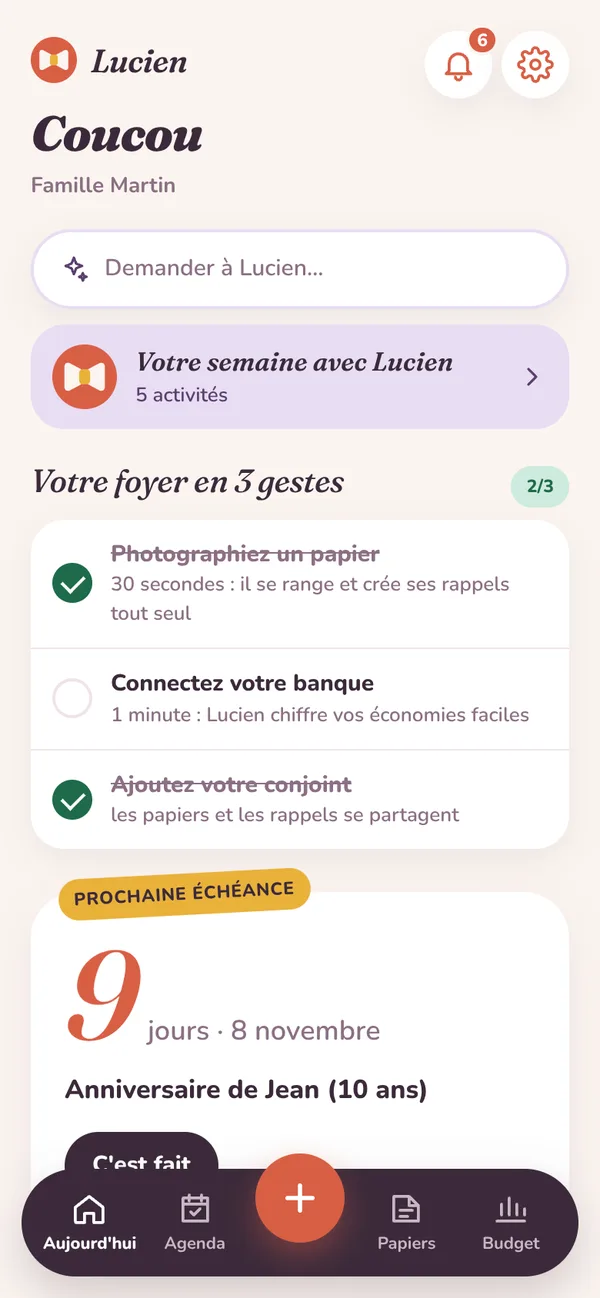
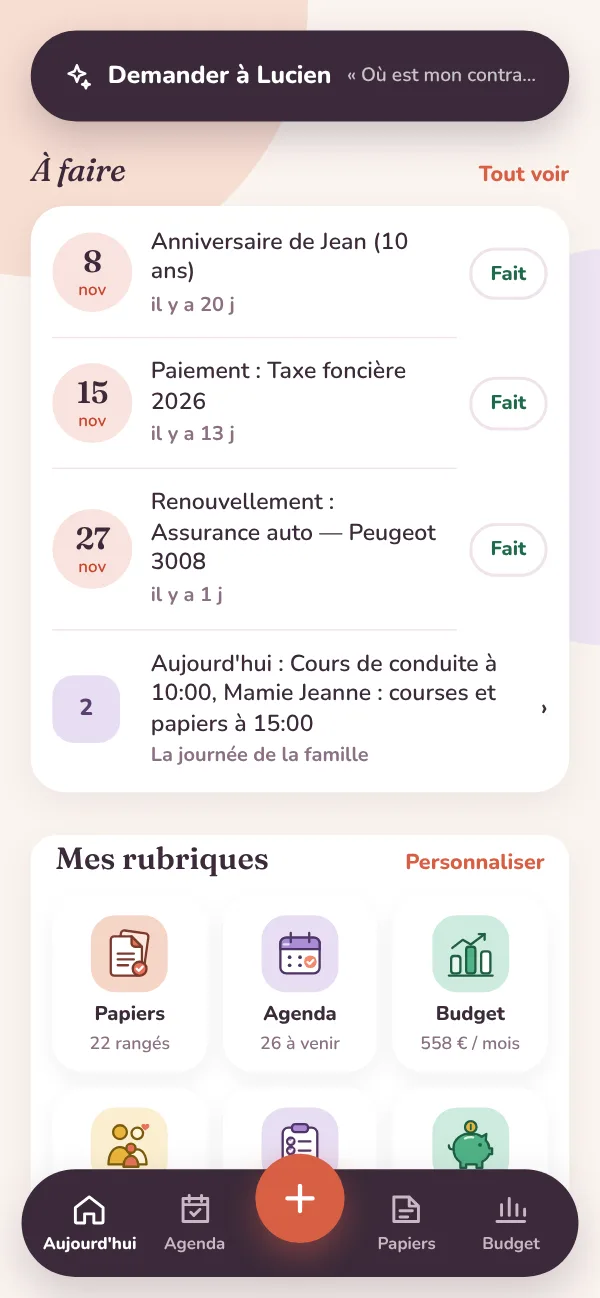
Site : captures de l'accueil épuré avec les nouvelles icônes, légende mise à jour dans les six langues
Claude-Session: https://claude.ai/code/session_01SKXp3YtnicuTMZX8UfmED5

diff --git a/site/i18n.js b/site/i18n.js
@@ -10,7 +10,7 @@ window.LUCIEN_I18N = {
     t6s: "Sign up",
     vpause: "Pause the video", vplay: "Play the video",
     pr1: "All of Lucien, AI reading included", pr2: "Bank connection and savings", pr3: "Reminders by notification and email", pr4: "All of Lucien, for both of you", pr5: "Each with their own login, the same papers", pr6: "Reminders reach you both", pr7: "All of Lucien, up to 6 logins", pr8: "Grown-up children and grandparents connected", pr9: "Everyone sees what they should",
-    n1: "The tour", h1: "Hosted in Europe", h2: "No advertising", h3: "Read-only bank access", b1: "Notice period: 12 days left", b2: "Invoice filed by itself", b3: "a year, one forgotten subscription", v0: "The tour", v00: "The whole household fits in one app.", v000: "Twelve screens, and nothing slips through again. Scroll through.", v1: "Today", v2: "The next deadline in big, everyone's day, and what you have already saved.", v3: "Agenda", v4: "Paperwork deadlines and the children's activities in one place, with the reminder before.", v5: "Papers", v6: "Every contract with its dates, notice period and amount. One search and it's there.", v7: "Family", v8: "The whole family in photos: who does what today, the week, key dates and benefits.", v9: "Budget", v10: "Your real spending, and the easy savings ranked by gain, with the button to act.", pm: "Monthly", pa: "Yearly", pa2: "2 months free", pF: "15 days, all included", pS: "Just for you", pD: "Ideal for couples", pD2: "You and your partner", pT: "The whole family, grown-up children included", pinc: "Included in Solo, Duo and Tribu", peq: "i.e. {x} / month", peq2: "no commitment", t34: "Example built from a fictional family. Your figures depend on your contracts.",
+    n1: "The tour", h1: "Hosted in Europe", h2: "No advertising", h3: "Read-only bank access", b1: "Notice period: 12 days left", b2: "Invoice filed by itself", b3: "a year, one forgotten subscription", v0: "The tour", v00: "The whole household fits in one app.", v000: "Twelve screens, and nothing slips through again. Scroll through.", v1: "Today", v2: "A question for Lucien, what needs doing, then your sections: everyone builds their own home screen.", v3: "Agenda", v4: "Paperwork deadlines and the children's activities in one place, with the reminder before.", v5: "Papers", v6: "Every contract with its dates, notice period and amount. One search and it's there.", v7: "Family", v8: "The whole family in photos: who does what today, the week, key dates and benefits.", v9: "Budget", v10: "Your real spending, and the easy savings ranked by gain, with the button to act.", pm: "Monthly", pa: "Yearly", pa2: "2 months free", pF: "15 days, all included", pS: "Just for you", pD: "Ideal for couples", pD2: "You and your partner", pT: "The whole family, grown-up children included", pinc: "Included in Solo, Duo and Tribu", peq: "i.e. {x} / month", peq2: "no commitment", t34: "Example built from a fictional family. Your figures depend on your contracts.",
     _dir: "ltr", _desc: "Lucien files your family's paperwork, warns you before every deadline and finds the easy savings in your spending. With a connector for your AI assistant.",
     t1: "Savings", t2: "How it works", t3: "AI connector", t4: "Pricing", t5: "Questions", t6: "Join the waitlist",
     t7: "Lucien, the butler who <b>thinks of everything</b> for you.",
@@ -95,7 +95,7 @@ window.LUCIEN_I18N = {
     t6s: "Apuntarme",
     vpause: "Pausar el vídeo", vplay: "Reproducir el vídeo",
     pr1: "Todo Lucien, lectura por IA incluida", pr2: "Conexión bancaria y ahorros", pr3: "Avisos por notificación y por email", pr4: "Todo Lucien, para los dos", pr5: "Cada uno con su acceso, los mismos papeles", pr6: "Los avisos llegan a los dos", pr7: "Todo Lucien, hasta 6 accesos", pr8: "Hijos mayores y abuelos conectados", pr9: "Cada uno ve lo que debe ver",
-    n1: "La visita", h1: "Alojado en Europa", h2: "Sin publicidad", h3: "Banco solo en lectura", b1: "Preaviso: quedan 12 días", b2: "Factura archivada sola", b3: "al año, una suscripción olvidada", v0: "La visita", v00: "Todo el hogar cabe en una sola app.", v000: "Doce pantallas, y ya nada se te escapa. Desliza.", v1: "Hoy", v2: "El próximo vencimiento en grande, el día de cada uno y lo que ya has ahorrado.", v3: "Agenda", v4: "Los vencimientos de los papeles y las actividades de los niños en un mismo lugar, con el aviso antes.", v5: "Papeles", v6: "Cada contrato con sus fechas, su preaviso y su importe. Una búsqueda y ahí está.", v7: "Familia", v8: "Toda la familia en fotos: quién hace qué hoy, la semana, las fechas clave y las ayudas.", v9: "Presupuesto", v10: "Tus gastos reales y los ahorros fáciles ordenados por ganancia, con el botón para actuar.", pm: "Mensual", pa: "Anual", pa2: "2 meses gratis", pF: "15 días, todo incluido", pS: "Solo para ti", pD: "Ideal en pareja", pD2: "Tú y tu pareja", pT: "Toda la familia, hijos mayores incluidos", pinc: "Incluido en Solo, Duo y Tribu", peq: "o sea {x} / mes", peq2: "sin compromiso", t34: "Ejemplo construido a partir de una familia ficticia. Tus cifras dependen de tus contratos.",
+    n1: "La visita", h1: "Alojado en Europa", h2: "Sin publicidad", h3: "Banco solo en lectura", b1: "Preaviso: quedan 12 días", b2: "Factura archivada sola", b3: "al año, una suscripción olvidada", v0: "La visita", v00: "Todo el hogar cabe en una sola app.", v000: "Doce pantallas, y ya nada se te escapa. Desliza.", v1: "Hoy", v2: "Una pregunta a Lucien, lo que hay que hacer y luego sus secciones: cada uno compone su inicio.", v3: "Agenda", v4: "Los vencimientos de los papeles y las actividades de los niños en un mismo lugar, con el aviso antes.", v5: "Papeles", v6: "Cada contrato con sus fechas, su preaviso y su importe. Una búsqueda y ahí está.", v7: "Familia", v8: "Toda la familia en fotos: quién hace qué hoy, la semana, las fechas clave y las ayudas.", v9: "Presupuesto", v10: "Tus gastos reales y los ahorros fáciles ordenados por ganancia, con el botón para actuar.", pm: "Mensual", pa: "Anual", pa2: "2 meses gratis", pF: "15 días, todo incluido", pS: "Solo para ti", pD: "Ideal en pareja", pD2: "Tú y tu pareja", pT: "Toda la familia, hijos mayores incluidos", pinc: "Incluido en Solo, Duo y Tribu", peq: "o sea {x} / mes", peq2: "sin compromiso", t34: "Ejemplo construido a partir de una familia ficticia. Tus cifras dependen de tus contratos.",
     _dir: "ltr", _desc: "Lucien ordena los papeles de tu familia, te avisa antes de cada vencimiento y encuentra los ahorros fáciles en tus gastos. Con un conector para tu asistente de IA.",
     t1: "Ahorros", t2: "Cómo funciona", t3: "Conector IA", t4: "Precios", t5: "Preguntas", t6: "Unirme a la lista de espera",
     t7: "Lucien, el mayordomo que <b>piensa en todo</b> por ti.",
@@ -180,7 +180,7 @@ window.LUCIEN_I18N = {
     t6s: "Iscriviti",
     vpause: "Metti in pausa il video", vplay: "Riproduci il video",
     pr1: "Tutto Lucien, lettura con l'IA inclusa", pr2: "Collegamento bancario e risparmi", pr3: "Promemoria con notifica ed email", pr4: "Tutto Lucien, per voi due", pr5: "Ognuno il suo accesso, gli stessi documenti", pr6: "I promemoria arrivano a entrambi", pr7: "Tutto Lucien, fino a 6 accessi", pr8: "Figli grandi e nonni collegati", pr9: "Ognuno vede ciò che deve vedere",
-    n1: "Il tour", h1: "Ospitato in Europa", h2: "Senza pubblicità", h3: "Banca in sola lettura", b1: "Preavviso: mancano 12 giorni", b2: "Fattura archiviata da sola", b3: "all'anno, un abbonamento dimenticato", v0: "Il tour", v00: "Tutta la famiglia sta in un'unica app.", v000: "Dodici schermate, e nulla ti sfugge più. Scorri.", v1: "Oggi", v2: "La prossima scadenza in grande, la giornata di ognuno e quanto hai già risparmiato.", v3: "Agenda", v4: "Le scadenze dei documenti e le attività dei figli nello stesso posto, con il promemoria prima.", v5: "Documenti", v6: "Ogni contratto con le sue date, il preavviso e l'importo. Una ricerca ed è lì.", v7: "Famiglia", v8: "Tutta la famiglia in foto: chi fa cosa oggi, la settimana, le date chiave e gli aiuti.", v9: "Budget", v10: "Le tue spese reali e i risparmi facili ordinati per guadagno, con il pulsante per agire.", pm: "Mensile", pa: "Annuale", pa2: "2 mesi gratis", pF: "15 giorni, tutto incluso", pS: "Solo per te", pD: "Ideale in coppia", pD2: "Tu e il tuo partner", pT: "Tutta la famiglia, figli grandi compresi", pinc: "Incluso in Solo, Duo e Tribu", peq: "cioè {x} / mese", peq2: "senza vincoli", t34: "Esempio costruito su una famiglia fittizia. Le tue cifre dipendono dai tuoi contratti.",
+    n1: "Il tour", h1: "Ospitato in Europa", h2: "Senza pubblicità", h3: "Banca in sola lettura", b1: "Preavviso: mancano 12 giorni", b2: "Fattura archiviata da sola", b3: "all'anno, un abbonamento dimenticato", v0: "Il tour", v00: "Tutta la famiglia sta in un'unica app.", v000: "Dodici schermate, e nulla ti sfugge più. Scorri.", v1: "Oggi", v2: "Una domanda a Lucien, le cose da fare, poi le tue sezioni: ognuno compone la propria home.", v3: "Agenda", v4: "Le scadenze dei documenti e le attività dei figli nello stesso posto, con il promemoria prima.", v5: "Documenti", v6: "Ogni contratto con le sue date, il preavviso e l'importo. Una ricerca ed è lì.", v7: "Famiglia", v8: "Tutta la famiglia in foto: chi fa cosa oggi, la settimana, le date chiave e gli aiuti.", v9: "Budget", v10: "Le tue spese reali e i risparmi facili ordinati per guadagno, con il pulsante per agire.", pm: "Mensile", pa: "Annuale", pa2: "2 mesi gratis", pF: "15 giorni, tutto incluso", pS: "Solo per te", pD: "Ideale in coppia", pD2: "Tu e il tuo partner", pT: "Tutta la famiglia, figli grandi compresi", pinc: "Incluso in Solo, Duo e Tribu", peq: "cioè {x} / mese", peq2: "senza vincoli", t34: "Esempio costruito su una famiglia fittizia. Le tue cifre dipendono dai tuoi contratti.",
     _dir: "ltr", _desc: "Lucien archivia i documenti della tua famiglia, ti avvisa prima di ogni scadenza e trova i risparmi facili nelle tue spese. Con un connettore per il tuo assistente IA.",
     t1: "Risparmi", t2: "Come funziona", t3: "Connettore IA", t4: "Prezzi", t5: "Domande", t6: "Iscriviti alla lista d'attesa",
     t7: "Lucien, il maggiordomo che <b>pensa a tutto</b> per te.",
@@ -285,7 +285,7 @@ window.LUCIEN_I18N = {
     v00: "Όλο το νοικοκυριό σε μία εφαρμογή.",
     v000: "Δώδεκα οθόνες, και τίποτα δεν σας ξεφεύγει πια. Κάντε κύλιση.",
     v1: "Σήμερα",
-    v2: "Η επόμενη προθεσμία με μεγάλα γράμματα, η μέρα του καθενός και όσα έχετε ήδη εξοικονομήσει.",
+    v2: "Μια ερώτηση στον Lucien, ό,τι πρέπει να γίνει και μετά οι ενότητές σας: ο καθένας φτιάχνει τη δική του αρχική οθόνη.",
     v3: "Ημερολόγιο",
     v4: "Οι προθεσμίες των εγγράφων και οι δραστηριότητες των παιδιών στο ίδιο σημείο, με υπενθύμιση από πριν.",
     v5: "Έγγραφα",
@@ -637,7 +637,7 @@ window.LUCIEN_I18N = {
     t6s: "سجّلني",
     vpause: "إيقاف الفيديو مؤقتًا", vplay: "تشغيل الفيديو",
     pr1: "كل لوسيان، مع القراءة بالذكاء الاصطناعي", pr2: "ربط البنك والتوفير", pr3: "تذكيرات بالإشعار والبريد", pr4: "كل لوسيان، لكما معًا", pr5: "لكل واحد دخوله، والأوراق نفسها", pr6: "التذكيرات تصل إلى كليكما", pr7: "كل لوسيان، حتى 6 حسابات", pr8: "الأبناء الكبار والأجداد متصلون", pr9: "كلٌّ يرى ما يخصه",
-    n1: "الجولة", h1: "مستضاف في أوروبا", h2: "بلا إعلانات", h3: "البنك للقراءة فقط", b1: "مهلة الإلغاء: بقي 12 يومًا", b2: "فاتورة رُتّبت وحدها", b3: "سنويًا، اشتراك منسي", v0: "الجولة", v00: "البيت كله في تطبيق واحد.", v000: "اثنتا عشرة شاشة، ولن يفوتك شيء بعد اليوم. مرّر.", v1: "اليوم", v2: "الموعد القادم بخط كبير، ويوم كل فرد، وما وفّرته حتى الآن.", v3: "المفكرة", v4: "مواعيد الأوراق وأنشطة الأطفال في مكان واحد، مع التذكير مسبقًا.", v5: "الأوراق", v6: "كل عقد بتواريخه ومهلة إلغائه ومبلغه. بحث واحد ويظهر.", v7: "العائلة", v8: "العائلة كلها بالصور: من يفعل ماذا اليوم، الأسبوع، التواريخ المهمة والمساعدات.", v9: "الميزانية", v10: "مصاريفك الحقيقية، والتوفير السهل مرتّبًا حسب المكسب، مع زر التنفيذ.", pm: "شهري", pa: "سنوي", pa2: "شهران مجانًا", pF: "15 يومًا، كل شيء مشمول", pS: "لك وحدك", pD: "مثالي للأزواج", pD2: "أنت وشريكك", pT: "العائلة كلها، مع الأبناء الكبار", pinc: "مشمول في Solo وDuo وTribu", peq: "أي {x} / شهريًا", peq2: "بلا التزام", t34: "مثال مبني على عائلة خيالية. أرقامك تعتمد على عقودك.",
+    n1: "الجولة", h1: "مستضاف في أوروبا", h2: "بلا إعلانات", h3: "البنك للقراءة فقط", b1: "مهلة الإلغاء: بقي 12 يومًا", b2: "فاتورة رُتّبت وحدها", b3: "سنويًا، اشتراك منسي", v0: "الجولة", v00: "البيت كله في تطبيق واحد.", v000: "اثنتا عشرة شاشة، ولن يفوتك شيء بعد اليوم. مرّر.", v1: "اليوم", v2: "سؤال إلى Lucien، وما يجب القيام به، ثم أقسامك: كلٌّ يصمّم شاشته الرئيسية.", v3: "المفكرة", v4: "مواعيد الأوراق وأنشطة الأطفال في مكان واحد، مع التذكير مسبقًا.", v5: "الأوراق", v6: "كل عقد بتواريخه ومهلة إلغائه ومبلغه. بحث واحد ويظهر.", v7: "العائلة", v8: "العائلة كلها بالصور: من يفعل ماذا اليوم، الأسبوع، التواريخ المهمة والمساعدات.", v9: "الميزانية", v10: "مصاريفك الحقيقية، والتوفير السهل مرتّبًا حسب المكسب، مع زر التنفيذ.", pm: "شهري", pa: "سنوي", pa2: "شهران مجانًا", pF: "15 يومًا، كل شيء مشمول", pS: "لك وحدك", pD: "مثالي للأزواج", pD2: "أنت وشريكك", pT: "العائلة كلها، مع الأبناء الكبار", pinc: "مشمول في Solo وDuo وTribu", peq: "أي {x} / شهريًا", peq2: "بلا التزام", t34: "مثال مبني على عائلة خيالية. أرقامك تعتمد على عقودك.",
     _dir: "rtl", _desc: "لوسيان يرتّب أوراق عائلتك، وينبّهك قبل كل موعد استحقاق، ويجد لك الوفورات السهلة في مصاريفك. مع موصّل لمساعدك الذكي.",
     t1: "الوفورات", t2: "كيف يعمل", t3: "موصّل الذكاء الاصطناعي", t4: "الأسعار", t5: "أسئلة", t6: "الانضمام إلى قائمة الانتظار",
     t7: "لوسيان، كبير الخدم الذي <b>يفكّر في كل شيء</b> من أجلك.",

diff --git a/site/el/index.html b/site/el/index.html
@@ -160,7 +160,7 @@
     <p class="lead rv" data-i18n="v000">Δώδεκα οθόνες, και τίποτα δεν σας ξεφεύγει πια. Κάντε κύλιση.</p>
   </div>
   <div class="tour-track" id="tour" tabindex="0" aria-label="Οθόνες της εφαρμογής Lucien">
-    <figure class="tour-card rv"><div class="device"><img src="../img/app-home.webp" width="260" height="562" alt="Αρχική οθόνη του Lucien" loading="lazy"></div><figcaption><b data-i18n="v1">Σήμερα</b><span data-i18n="v2">Η επόμενη προθεσμία με μεγάλα γράμματα, η μέρα του καθενός και όσα έχετε ήδη εξοικονομήσει.</span></figcaption></figure>
+    <figure class="tour-card rv"><div class="device"><img src="../img/app-home.webp" width="260" height="562" alt="Αρχική οθόνη του Lucien" loading="lazy"></div><figcaption><b data-i18n="v1">Σήμερα</b><span data-i18n="v2">Μια ερώτηση στον Lucien, ό,τι πρέπει να γίνει και μετά οι ενότητές σας: ο καθένας φτιάχνει τη δική του αρχική οθόνη.</span></figcaption></figure>
     <figure class="tour-card rv"><div class="device"><img src="../img/app-deadlines.webp" width="260" height="562" alt="Ημερολόγιο του Lucien" loading="lazy"></div><figcaption><b data-i18n="v3">Ημερολόγιο</b><span data-i18n="v4">Οι προθεσμίες των εγγράφων και οι δραστηριότητες των παιδιών στο ίδιο σημείο, με υπενθύμιση από πριν.</span></figcaption></figure>
     <figure class="tour-card rv"><div class="device"><img src="../img/app-docs.webp" width="260" height="562" alt="Τακτοποιημένα έγγραφα στο Lucien" loading="lazy"></div><figcaption><b data-i18n="v5">Έγγραφα</b><span data-i18n="v6">Κάθε σύμβαση με τις ημερομηνίες, την προθεσμία καταγγελίας και το ποσό της. Μία αναζήτηση και τη βρίσκετε.</span></figcaption></figure>
     <figure class="tour-card rv"><div class="device"><img src="../img/app-reclamation.webp" width="260" height="562" alt="Διαμαρτυρία γραμμένη από τον Lucien" loading="lazy"></div><figcaption><b data-i18n="v17">Διαμαρτυρία</b><span data-i18n="v18">Εξηγείτε σε δύο φράσεις: ο Lucien γράφει την επιστολή, με τη διεύθυνση και το email που διάβασε στο έγγραφο.</span></figcaption></figure>

diff --git a/site/ar/index.html b/site/ar/index.html
@@ -160,7 +160,7 @@
     <p class="lead rv" data-i18n="v000">اثنتا عشرة شاشة، ولن يفوتك شيء بعد اليوم. مرّر.</p>
   </div>
   <div class="tour-track" id="tour" tabindex="0" aria-label="شاشات تطبيق لوسيان">
-    <figure class="tour-card rv"><div class="device"><img src="../img/app-home.webp" width="260" height="562" alt="الشاشة الرئيسية للوسيان" loading="lazy"></div><figcaption><b data-i18n="v1">اليوم</b><span data-i18n="v2">الموعد القادم بخط كبير، ويوم كل فرد، وما وفّرته حتى الآن.</span></figcaption></figure>
+    <figure class="tour-card rv"><div class="device"><img src="../img/app-home.webp" width="260" height="562" alt="الشاشة الرئيسية للوسيان" loading="lazy"></div><figcaption><b data-i18n="v1">اليوم</b><span data-i18n="v2">سؤال إلى Lucien، وما يجب القيام به، ثم أقسامك: كلٌّ يصمّم شاشته الرئيسية.</span></figcaption></figure>
     <figure class="tour-card rv"><div class="device"><img src="../img/app-deadlines.webp" width="260" height="562" alt="تقويم لوسيان" loading="lazy"></div><figcaption><b data-i18n="v3">المفكرة</b><span data-i18n="v4">مواعيد الأوراق وأنشطة الأطفال في مكان واحد، مع التذكير مسبقًا.</span></figcaption></figure>
     <figure class="tour-card rv"><div class="device"><img src="../img/app-docs.webp" width="260" height="562" alt="أوراق مرتبة في لوسيان" loading="lazy"></div><figcaption><b data-i18n="v5">الأوراق</b><span data-i18n="v6">كل عقد بتواريخه ومهلة إلغائه ومبلغه. بحث واحد ويظهر.</span></figcaption></figure>
     <figure class="tour-card rv"><div class="device"><img src="../img/app-reclamation.webp" width="260" height="562" alt="شكوى حرّرها لوسيان" loading="lazy"></div><figcaption><b data-i18n="v17">الشكاوى</b><span data-i18n="v18">تشرح في جملتين: يكتب لوسيان الرسالة، بالعنوان والبريد الإلكتروني المقروءين في الورقة.</span></figcaption></figure>

diff --git a/site/index.html b/site/index.html
@@ -160,7 +160,7 @@
     <p class="lead rv" data-i18n="v000">Douze écrans, et plus rien ne vous échappe. Faites défiler.</p>
   </div>
   <div class="tour-track" id="tour" tabindex="0" aria-label="Écrans de l'application Lucien">
-    <figure class="tour-card rv"><div class="device"><img src="img/app-home.webp" width="260" height="562" alt="Accueil de Lucien" loading="lazy"></div><figcaption><b data-i18n="v1">Aujourd'hui</b><span data-i18n="v2">La prochaine échéance en grand, la journée de chacun, et ce que vous avez déjà économisé.</span></figcaption></figure>
+    <figure class="tour-card rv"><div class="device"><img src="img/app-home.webp" width="260" height="562" alt="Accueil de Lucien" loading="lazy"></div><figcaption><b data-i18n="v1">Aujourd'hui</b><span data-i18n="v2">Une question à Lucien, ce qu'il y a à faire, puis vos rubriques : chacun compose son accueil.</span></figcaption></figure>
     <figure class="tour-card rv"><div class="device"><img src="img/app-deadlines.webp" width="260" height="562" alt="Agenda de Lucien" loading="lazy"></div><figcaption><b data-i18n="v3">Agenda</b><span data-i18n="v4">Les échéances des papiers et les activités des enfants au même endroit, avec le rappel avant.</span></figcaption></figure>
     <figure class="tour-card rv"><div class="device"><img src="img/app-docs.webp" width="260" height="562" alt="Papiers rangés dans Lucien" loading="lazy"></div><figcaption><b data-i18n="v5">Papiers</b><span data-i18n="v6">Chaque contrat avec ses dates, son préavis et son montant. Une recherche, et il est là.</span></figcaption></figure>
     <figure class="tour-card rv"><div class="device"><img src="img/app-reclamation.webp" width="260" height="562" alt="Réclamation rédigée par Lucien" loading="lazy"></div><figcaption><b data-i18n="v17">Réclamation</b><span data-i18n="v18">Vous expliquez en deux phrases : Lucien écrit la lettre, avec l'adresse et l'email lus sur le papier.</span></figcaption></figure>

diff --git a/site/es/index.html b/site/es/index.html
@@ -160,7 +160,7 @@
     <p class="lead rv" data-i18n="v000">Doce pantallas, y ya nada se te escapa. Desliza.</p>
   </div>
   <div class="tour-track" id="tour" tabindex="0" aria-label="Pantallas de la aplicación Lucien">
-    <figure class="tour-card rv"><div class="device"><img src="../img/app-home.webp" width="260" height="562" alt="Inicio de Lucien" loading="lazy"></div><figcaption><b data-i18n="v1">Hoy</b><span data-i18n="v2">El próximo vencimiento en grande, el día de cada uno y lo que ya has ahorrado.</span></figcaption></figure>
+    <figure class="tour-card rv"><div class="device"><img src="../img/app-home.webp" width="260" height="562" alt="Inicio de Lucien" loading="lazy"></div><figcaption><b data-i18n="v1">Hoy</b><span data-i18n="v2">Una pregunta a Lucien, lo que hay que hacer y luego sus secciones: cada uno compone su inicio.</span></figcaption></figure>
     <figure class="tour-card rv"><div class="device"><img src="../img/app-deadlines.webp" width="260" height="562" alt="Agenda de Lucien" loading="lazy"></div><figcaption><b data-i18n="v3">Agenda</b><span data-i18n="v4">Los vencimientos de los papeles y las actividades de los niños en un mismo lugar, con el aviso antes.</span></figcaption></figure>
     <figure class="tour-card rv"><div class="device"><img src="../img/app-docs.webp" width="260" height="562" alt="Papeles ordenados en Lucien" loading="lazy"></div><figcaption><b data-i18n="v5">Papeles</b><span data-i18n="v6">Cada contrato con sus fechas, su preaviso y su importe. Una búsqueda y ahí está.</span></figcaption></figure>
     <figure class="tour-card rv"><div class="device"><img src="../img/app-reclamation.webp" width="260" height="562" alt="Reclamación redactada por Lucien" loading="lazy"></div><figcaption><b data-i18n="v17">Reclamación</b><span data-i18n="v18">Lo explicas en dos frases: Lucien escribe la carta, con la dirección y el correo leídos en el documento.</span></figcaption></figure>

diff --git a/site/en/index.html b/site/en/index.html
@@ -160,7 +160,7 @@
     <p class="lead rv" data-i18n="v000">Twelve screens, and nothing slips through again. Scroll through.</p>
   </div>
   <div class="tour-track" id="tour" tabindex="0" aria-label="Screens of the Lucien app">
-    <figure class="tour-card rv"><div class="device"><img src="../img/app-home.webp" width="260" height="562" alt="Lucien home screen" loading="lazy"></div><figcaption><b data-i18n="v1">Today</b><span data-i18n="v2">The next deadline in big, everyone's day, and what you have already saved.</span></figcaption></figure>
+    <figure class="tour-card rv"><div class="device"><img src="../img/app-home.webp" width="260" height="562" alt="Lucien home screen" loading="lazy"></div><figcaption><b data-i18n="v1">Today</b><span data-i18n="v2">A question for Lucien, what needs doing, then your sections: everyone builds their own home screen.</span></figcaption></figure>
     <figure class="tour-card rv"><div class="device"><img src="../img/app-deadlines.webp" width="260" height="562" alt="Lucien calendar" loading="lazy"></div><figcaption><b data-i18n="v3">Agenda</b><span data-i18n="v4">Paperwork deadlines and the children's activities in one place, with the reminder before.</span></figcaption></figure>
     <figure class="tour-card rv"><div class="device"><img src="../img/app-docs.webp" width="260" height="562" alt="Paperwork filed in Lucien" loading="lazy"></div><figcaption><b data-i18n="v5">Papers</b><span data-i18n="v6">Every contract with its dates, notice period and amount. One search and it's there.</span></figcaption></figure>
     <figure class="tour-card rv"><div class="device"><img src="../img/app-reclamation.webp" width="260" height="562" alt="Complaint letter written by Lucien" loading="lazy"></div><figcaption><b data-i18n="v17">Complaints</b><span data-i18n="v18">You explain in two sentences: Lucien writes the letter, with the address and email read on the document.</span></figcaption></figure>

diff --git a/site/it/index.html b/site/it/index.html
@@ -160,7 +160,7 @@
     <p class="lead rv" data-i18n="v000">Dodici schermate, e nulla ti sfugge più. Scorri.</p>
   </div>
   <div class="tour-track" id="tour" tabindex="0" aria-label="Schermate dell'app Lucien">
-    <figure class="tour-card rv"><div class="device"><img src="../img/app-home.webp" width="260" height="562" alt="Home di Lucien" loading="lazy"></div><figcaption><b data-i18n="v1">Oggi</b><span data-i18n="v2">La prossima scadenza in grande, la giornata di ognuno e quanto hai già risparmiato.</span></figcaption></figure>
+    <figure class="tour-card rv"><div class="device"><img src="../img/app-home.webp" width="260" height="562" alt="Home di Lucien" loading="lazy"></div><figcaption><b data-i18n="v1">Oggi</b><span data-i18n="v2">Una domanda a Lucien, le cose da fare, poi le tue sezioni: ognuno compone la propria home.</span></figcaption></figure>
     <figure class="tour-card rv"><div class="device"><img src="../img/app-deadlines.webp" width="260" height="562" alt="Agenda di Lucien" loading="lazy"></div><figcaption><b data-i18n="v3">Agenda</b><span data-i18n="v4">Le scadenze dei documenti e le attività dei figli nello stesso posto, con il promemoria prima.</span></figcaption></figure>
     <figure class="tour-card rv"><div class="device"><img src="../img/app-docs.webp" width="260" height="562" alt="Documenti archiviati in Lucien" loading="lazy"></div><figcaption><b data-i18n="v5">Documenti</b><span data-i18n="v6">Ogni contratto con le sue date, il preavviso e l'importo. Una ricerca ed è lì.</span></figcaption></figure>
     <figure class="tour-card rv"><div class="device"><img src="../img/app-reclamation.webp" width="260" height="562" alt="Reclamo scritto da Lucien" loading="lazy"></div><figcaption><b data-i18n="v17">Reclamo</b><span data-i18n="v18">Spieghi in due frasi: Lucien scrive la lettera, con l'indirizzo e l'email letti sul documento.</span></figcaption></figure>
